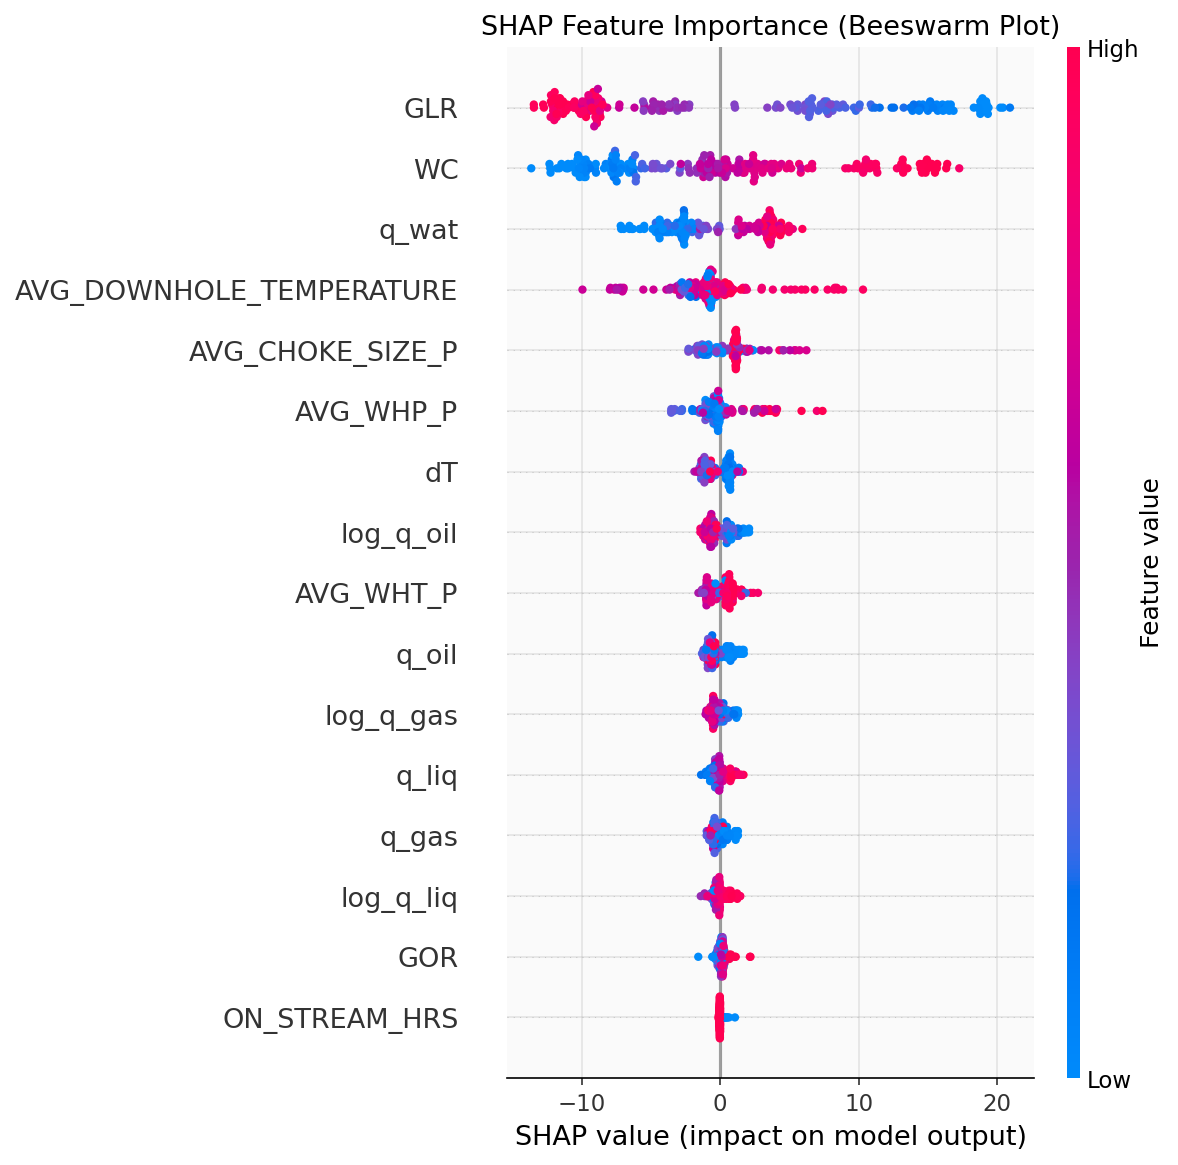
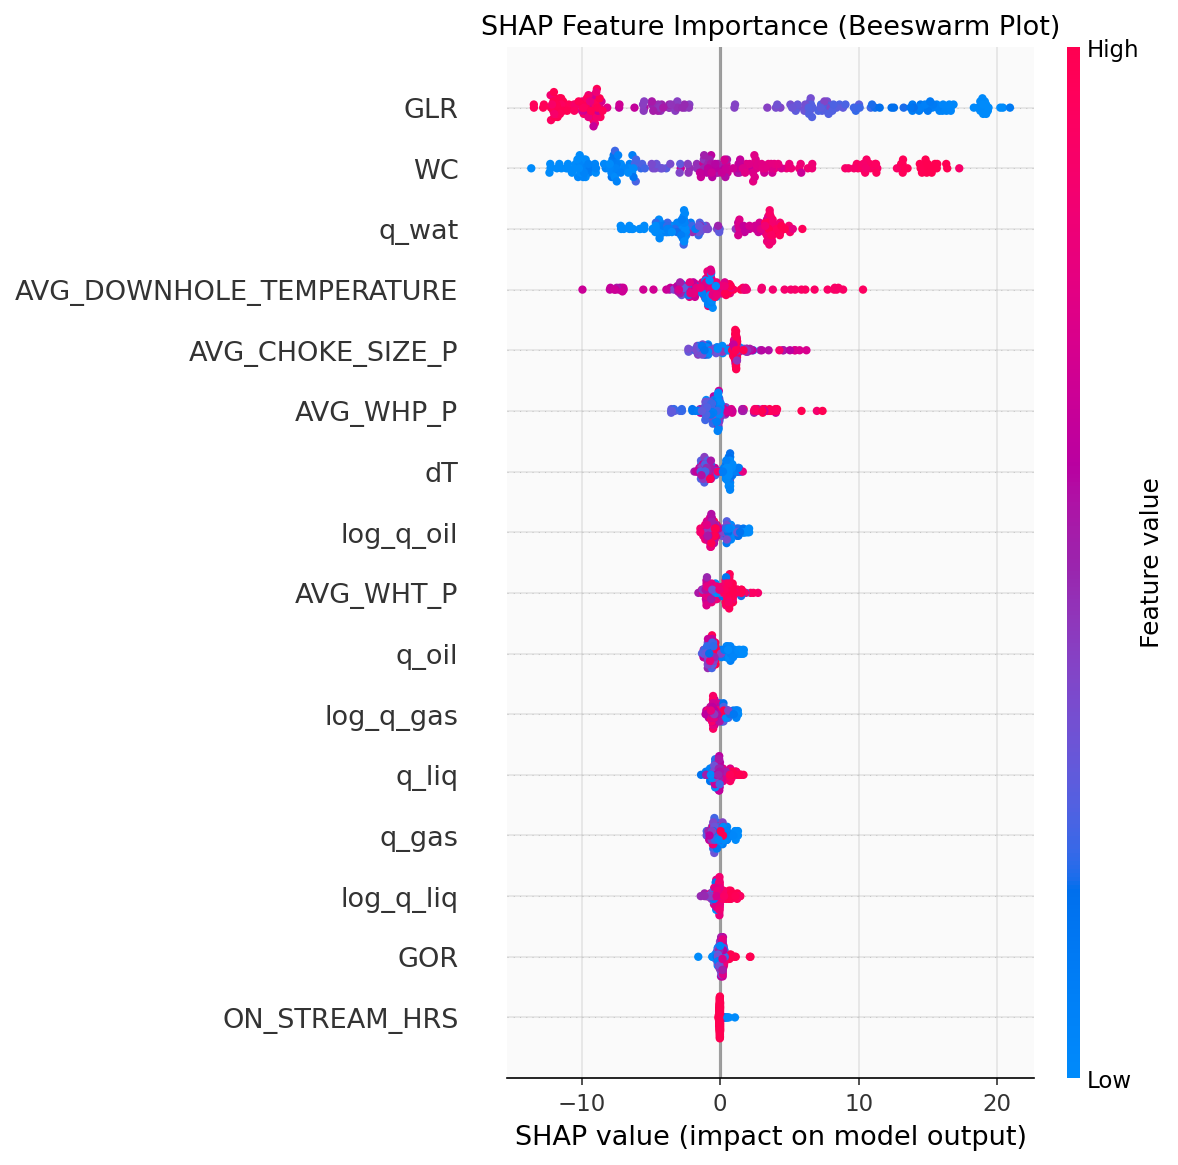
push

diff --git a/RESULTS.md b/RESULTS.md
@@ -189,33 +189,52 @@ are then applied:
 
 ### Per-Strategy Macro-Average Results
 
-| Strategy | Precision | Recall | F1 |
-|----------|:---------:|:------:|:--:|
-| LOWO (cross-well) | *see CSV* | *see CSV* | *see CSV* |
-| Chronological (within-well) | *see CSV* | *see CSV* | *see CSV* |
-| Pooled (random 80/20) | *see CSV* | *see CSV* | *see CSV* |
+| Strategy | Accuracy (mean) | Precision (macro) | Recall (macro) | F1 (macro) |
+|----------|:--------------:|:-----------------:|:--------------:|:----------:|
+| LOWO (cross-well) | 0.879 | 0.579 | 0.512 | 0.516 |
+| Chronological (within-well) | 0.789 | 0.421 | 0.407 | 0.359 |
+| Pooled (random 80/20) | **0.981** | **0.654** | **0.654** | **0.654** |
 
-> Run `python code/vlp_pipeline_v2.py` to populate exact numbers.
-> The Streamlit app **Model Performance → Classification Metrics** tab
-> displays these results interactively with per-regime bar charts.
+> **Data file:** `data/classification_metrics.csv`  
+> Generated by Stage 5.5 of `code/vlp_pipeline_v2.py`.
+
+#### Per-Well LOWO Classification Results
+
+| Held-Out Well | Accuracy | Precision | Recall | F1 |
+|:-------------|:--------:|:---------:|:------:|:--:|
+| F-1C | 0.810 | 0.522 | 0.577 | 0.527 |
+| F-11H | **0.955** | **0.648** | **0.602** | **0.621** |
+| F-12H | 0.840 | 0.611 | 0.412 | 0.430 |
+| F-14H | 0.810 | 0.589 | 0.490 | 0.503 |
+| F-15D | 0.981 | 0.524 | 0.477 | 0.497 |
+| **Mean** | **0.879** | **0.579** | **0.512** | **0.516** |
 
 ### Key Observations
 
-1. **Pooled split** will show the highest Precision/Recall/F1 — consistent with its R²=0.976,
-   the model almost always places predictions in the correct regime when test data shares the
-   same wells as training data.
+1. **Pooled split** achieves the highest classification performance (F1=0.654, Accuracy=0.981) —
+   consistent with R²=0.976. When test data shares the same wells as training, the model almost
+   always places predictions in the correct regime.
 
-2. **LOWO** will show the most honest classification performance — when the model is asked to
-   classify the regime of a *completely unseen* well, errors arise from the narrow ΔP ranges
-   of F-15D and F-12H (both operate deep in the Medium band with little variation).
+2. **LOWO macro F1=0.516** is the most honest number — it measures how well the model classifies
+   the regime of a *completely unseen* well using only the other four for training.
 
-3. **The Medium regime is the easiest to classify correctly** — it has the most data
-   and spans the widest absolute ΔP range across the 5 wells.
+3. **Low regime has zero support** — all five Volve wells operate in the Medium or High range.
+   This means the Low class always scores Precision=0/Recall=0, which depresses the macro average.
+   This is a data characteristic, not a model deficiency.
 
-4. **Macro averaging penalises imbalance** — because almost all Volve data sits in the
-   Medium regime, the High and Low classes have low Support. Macro F1 therefore
-   reveals whether the model generalises across all operating conditions, not just
-   the dominant regime.
+4. **F-11H is the best-generalised well** (F1=0.621) — it has the most training data and operates
+   across the widest ΔP range, so the model can reliably classify its High-regime observations.
+
+5. **Chronological split suffers regime shifts** — some wells' last 20% of production shifts
+   entirely into High ΔP (e.g. F-11H last 20% is all High), so Low and Medium recall collapses
+   to zero for those folds, pulling the macro F1 down to 0.359.
+
+6. **Accuracy is misleadingly optimistic for LOWO** — F-15D shows Accuracy=0.981 but F1=0.497
+   because almost all its points are in the Medium regime. Always report F1 alongside Accuracy.
+
+> The Streamlit app **Model Performance → 📊 Classification Metrics** tab displays these
+> results interactively with per-regime bar charts and colour-coded score cards.
+
 
 ---
 
